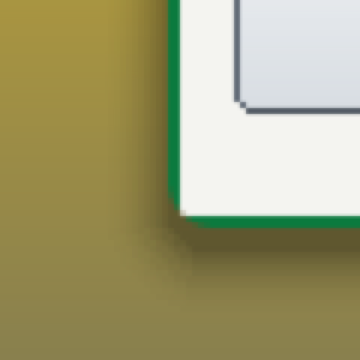
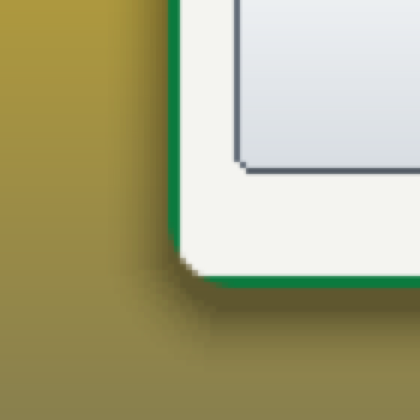
Cantos de raio 12, que arredondam também o conteúdo da janela
Com raio 8 e a borda de 2 pixels, a curva cortava só a borda e o conteúdo
branco ficava com a quina reta por dentro. A cobertura passa a vir do
suave.h (4 x 4 amostras) para qualquer raio, e só é calculada nas colunas
e linhas dos cantos. A sombra que segue a curva só tira a raiz nos cantos:
ao lado das retas a distância é direta. O quadro inteiro com vidro fica
em 22 a 30 ms, como no main (antes da otimização chegou a 42 ms e o
sistema ligava os efeitos leves sozinho); h104 confere que os efeitos
completos continuam ligados.

Changed region(s): [[0.3667, 0.0, 1.0, 0.7333], [0.55, 0.0, 1.0, 0.4278], [0.5194, 0.7333, 0.55, 0.7639]]

diff --git a/kernel/gui/vidro.c b/kernel/gui/vidro.c
@@ -47,43 +47,33 @@ static inline uint32_t escurecer(uint32_t p, int k)
     return (rb & 0xFF00FF) | (g & 0x00FF00);
 }
 
-/* Canto arredondado suavizado: quanto do pixel (de 0 a 256) fica dentro de
- * um quarto de círculo de raio 8, contado com 8 x 8 amostras por pixel.
- * Linha 0 e coluna 0 são as da ponta. Antes o canto só pulava pixels
- * inteiros (5, 3, 2, 1, 1), e a borda ficava em escada. */
-static const uint16_t canto[VIDRO_CANTO][VIDRO_CANTO] = {
-    { 0, 0, 0, 0, 48, 156, 216, 256 },
-    { 0, 0, 12, 156, 256, 256, 256, 256 },
-    { 0, 12, 196, 256, 256, 256, 256, 256 },
-    { 0, 156, 256, 256, 256, 256, 256, 256 },
-    { 48, 256, 256, 256, 256, 256, 256, 256 },
-    { 156, 256, 256, 256, 256, 256, 256, 256 },
-    { 216, 256, 256, 256, 256, 256, 256, 256 },
-    { 256, 256, 256, 256, 256, 256, 256, 256 },
-};
-
-/* Pixels de cobertura 0 na ponta da linha r (o que fica todo de fora). */
-int vidro_canto(int r)
+/* Canto arredondado suavizado: quanto de cada pixel da ponta fica dentro
+ * do quarto de círculo, contado com 4 x 4 amostras (suave.h). Antes o canto
+ * só pulava pixels inteiros (5, 3, 2, 1, 1), e a borda ficava em escada. O
+ * raio é VIDRO_CANTO, ou menos se o retângulo for baixo ou estreito. */
+static int raio_de(int l, int a)
 {
-    int n = 0;
-    if (r >= 0 && r < VIDRO_CANTO) while (n < VIDRO_CANTO && canto[r][n] == 0) n++;
+    int r = VIDRO_CANTO;
+    if (2 * r > l) r = l / 2;
+    if (2 * r > a) r = a / 2;
+    return r;
+}
+
+/* Quanto do pixel (i, j) fica dentro do retângulo (0 a 256). */
+static int cobertura(int i, int j, int x, int y, int l, int a, int cantos, int r)
+{
+    int li = i - x, lj = j - y;
+    if (lj < r ? !(cantos & CANTOS_EM_CIMA) : lj >= a - r ? !(cantos & CANTOS_EMBAIXO) : true) return 256;
+    return suave_amostras_ret(li, lj, l, a, r) * 16;
+}
+
+/* Pixels todo de fora na ponta da linha "linha" de um canto de raio
+ * VIDRO_CANTO (0 = a da ponta). */
+int vidro_canto(int linha)
+{
+    int R = VIDRO_CANTO, n = 0;
+    if (linha >= 0 && linha < R) while (n < R && suave_amostras_ret(n, linha, 2 * R, 2 * R, R) == 0) n++;
     return n;
-}
-
-/* Linha do canto em que j cai (0 = a da ponta), ou -1 fora dos cantos. */
-static int linha_canto(int j, int y, int a, int cantos)
-{
-    if ((cantos & CANTOS_EM_CIMA) && j - y < VIDRO_CANTO) return j - y;
-    if ((cantos & CANTOS_EMBAIXO) && y + a - 1 - j < VIDRO_CANTO) return y + a - 1 - j;
-    return -1;
-}
-
-/* Quanto do pixel i da linha "lin" do canto fica dentro (0 a 256). */
-static int cobertura(int lin, int i, int x, int l)
-{
-    if (lin < 0) return 256;
-    int col = i - x < VIDRO_CANTO ? i - x : x + l - 1 - i < VIDRO_CANTO ? x + l - 1 - i : -1;
-    return col < 0 ? 256 : canto[lin][col];
 }
 
 void vidro_pintar(superficie_t *s, int x, int y, int l, int a, uint32_t tinta, int k, int cantos)
@@ -91,13 +81,14 @@ void vidro_pintar(superficie_t *s, int x, int y, int l, int a, uint32_t tinta, i
     int x0 = x < s->cx0 ? s->cx0 : x, y0 = y < s->cy0 ? s->cy0 : y;
     int x1 = x + l > s->cx1 ? s->cx1 : x + l, y1 = y + a > s->cy1 ? s->cy1 : y + a;
     if (x0 >= x1 || y0 >= y1) return;
+    int r = raio_de(l, a);
     if (!buf || a > VIDRO_ALT_MAX || !vidro_efeitos) {
         /* Sem desfoque (efeitos leves): só a cor, um pouco transparente. */
         for (int j = y0; j < y1; j++) {
-            int lin = linha_canto(j, y, a, cantos);
             uint32_t *p = s->px + j * s->larg;
+            bool linha_canto = j < y + r || j >= y + a - r;
             for (int i = x0; i < x1; i++) {
-                int cob = cobertura(lin, i, x, l);
+                int cob = linha_canto && (i < x + r || i >= x + l - r) ? cobertura(i, j, x, y, l, a, cantos, r) : 256;
                 if (!cob) continue;
                 uint32_t v = vidro_efeitos ? mistura(p[i], tinta, k) : tinta;
                 p[i] = cob == 256 ? v : mistura(p[i], v, cob);
@@ -129,6 +120,7 @@ void vidro_pintar(superficie_t *s, int x, int y, int l, int a, uint32_t tinta, i
     /* Passada 2: cada coluna do destino, média vertical sobre buf, misturada com a tinta. */
     for (int i = x0; i < x1; i++) {
         int c = i - sx0;
+        bool coluna_canto = i < x + r || i >= x + l - r;   /* só as colunas dos cantos têm conta */
         uint32_t sr = 0, sg = 0, sb = 0;
         int n = 0;
         int jj0 = y0 - sy0;                          /* linha do buf do primeiro destino */
@@ -139,7 +131,7 @@ void vidro_pintar(superficie_t *s, int x, int y, int l, int a, uint32_t tinta, i
         }
         for (int yy = y0; yy < y1; yy++) {
             int jb = yy - sy0;
-            int cob = cobertura(linha_canto(yy, y, a, cantos), i, x, l);
+            int cob = coluna_canto && (yy < y + r || yy >= y + a - r) ? cobertura(i, yy, x, y, l, a, cantos, r) : 256;
             if (cob) {
                 uint32_t media = ((sr / (uint32_t)n) << 16) | ((sg / (uint32_t)n) << 8) | (sb / (uint32_t)n);
                 uint32_t *p = &s->px[yy * s->larg + i];
@@ -221,8 +213,13 @@ void vidro_sombra_r(superficie_t *s, int x, int y, int l, int a, int r)
             /* Distância (em pixels) até o retângulo arredondado descido. */
             int cx = i < x + r ? x + r : (i >= x + l - r ? x + l - r - 1 : i);
             int cy = j < sy + r ? sy + r : (j >= sy + a - r ? sy + a - r - 1 : j);
-            int dx = i - cx, dy = j - cy, d2 = dx * dx + dy * dy, d = 0;
-            while ((d + 1) * (d + 1) <= d2) d++;
+            int dx = i - cx, dy = j - cy, d;
+            if (!dx || !dy) d = (dx < 0 ? -dx : dx) + (dy < 0 ? -dy : dy);   /* ao lado de uma reta: sem raiz */
+            else {
+                int d2 = dx * dx + dy * dy;
+                d = 0;
+                while ((d + 1) * (d + 1) <= d2) d++;
+            }
             d -= r;
             if (d < 0) d = 0;
             if (d >= S) continue;
@@ -264,7 +261,7 @@ void vidro_aplicar_cantos(superficie_t *s, int x, int y, int l, int a)
     for (int lado = 0; lado < 2; lado++)
         for (int r = 0; r < VIDRO_CANTO; r++)
             for (int c = 0; c < VIDRO_CANTO; c++) {
-                int cob = canto[r][c];
+                int cob = suave_amostras_ret(c, a - 1 - r, l, a, raio_de(l, a)) * 16;
                 if (cob == 256) continue;
                 int px = lado ? x + l - 1 - c : x + c, py = y + a - 1 - r;
                 if (px >= s->cx0 && px < s->cx1 && py >= s->cy0 && py < s->cy1) {

diff --git a/tests/h104_cantos.py b/tests/h104_cantos.py
@@ -2,8 +2,8 @@
 """H104 - cantos arredondados com a borda suavizada nas janelas e nos menus.
 
 Antes, o canto de raio 8 só pulava pixels inteiros (5, 3, 2, 1, 1 por
-linha) e a borda ficava em escada. Agora cada pixel da ponta entra na
-proporção do quanto fica dentro do círculo (8 x 8 amostras).
+linha) e a borda ficava em escada. Agora o raio é 12 e cada pixel da
+ponta entra na proporção do quanto fica dentro do círculo (4 x 4 amostras).
 
 Critérios (medidos nos pixels da captura):
   - canto de cima da janela: a ponta é o fundo, o miolo é a barra de título
@@ -38,6 +38,10 @@ def main():
     with Maquina("h104", "ide", memoria="768M") as m:
         m.esperar_serial("sagui:/$", 120)
         time.sleep(1)
+        # Os cantos e a sombra são dos efeitos completos: se o quadro ficar
+        # lento demais (mais de 40 ms), o sistema liga os leves sozinho.
+        q = re.findall(r"quadro inteiro com vidro: (\d+) ms; efeitos (\w+)", m.serial())
+        verificar(q and q[-1][1] == "completos", f"os efeitos completos continuam ligados (quadro de {q[-1][0] if q else '?'} ms)")
         n = len(m.serial())
         m.digitar("calculadora\n", 0.03)
         m.esperar_serial('"Calculadora"', 30)
@@ -50,14 +54,14 @@ def main():
         fx, fy = c["fx"], c["fy"]
         fa = c["a"] + 24 + 2
 
-        fora, dentro, meio = cor_do_pixel(png, fx, fy), cor_do_pixel(png, fx + 12, fy + 2), cor_do_pixel(png, fx + 2, fy + 2)   # (12, 2): barra, antes do título
+        fora, dentro, meio = cor_do_pixel(png, fx, fy), cor_do_pixel(png, fx + 14, fy + 3), cor_do_pixel(png, fx + 3, fy + 3)   # (3, 3): na curva de raio 12
         verificar(distancia(fora, dentro) > 25, f"o canto de cima é redondo: ponta {fora}, barra {dentro}")
         verificar(mistura(meio, fora, dentro), f"a curva de cima é suavizada: {meio} entre {fora} e {dentro}")
 
         ponta, borda = cor_do_pixel(png, fx, fy + fa - 1), cor_do_pixel(png, fx + 12, fy + fa - 1)
         verificar(distancia(ponta, borda) > 40, f"o canto de baixo é redondo: ponta {ponta}, borda {borda}")
-        meio_b = cor_do_pixel(png, fx + 3, fy + fa - 2)    # linha 1, coluna 3 do canto: 156 de 256 dentro
-        borda_b = cor_do_pixel(png, fx + 12, fy + fa - 2)
+        meio_b = cor_do_pixel(png, fx + 3, fy + fa - 4)    # (3, 3) contado da ponta de baixo: na curva
+        borda_b = cor_do_pixel(png, fx + 9, fy + fa - 9)   # o conteúdo da janela, já dentro da curva
         verificar(mistura(meio_b, ponta, borda_b), f"a curva de baixo é suavizada: {meio_b} entre {ponta} e {borda_b}")
 
         # A sombra segue a curva: na diagonal do canto de baixo ela é mais
@@ -79,7 +83,7 @@ def main():
         m.mouse_para(760, 300)                             # o cursor sai de cima do canto
         time.sleep(0.8)
         png = m.captura("H104-menu")
-        fora, dentro, meio = cor_do_pixel(png, x, y), cor_do_pixel(png, x + 10, y + 10), cor_do_pixel(png, x + 2, y + 2)
+        fora, dentro, meio = cor_do_pixel(png, x, y), cor_do_pixel(png, x + 20, y + 3), cor_do_pixel(png, x + 3, y + 3)
         verificar(distancia(fora, dentro) > 30, f"o canto do menu é redondo: ponta {fora}, menu {dentro}")
         verificar(mistura(meio, fora, dentro), f"a curva do menu é suavizada: {meio} entre {fora} e {dentro}")
         m.tecla("esc")

diff --git a/kernel/inc/vidro.h b/kernel/inc/vidro.h
@@ -6,7 +6,7 @@
 #define VIDRO_RAIO     6      /* desfoque: média num quadrado de 13 x 13 */
 #define VIDRO_ALT_MAX  72     /* vidro mais alto que isso não é desfocado */
 #define VIDRO_SOMBRA   12     /* largura da sombra das janelas */
-#define VIDRO_CANTO    8      /* raio dos cantos arredondados */
+#define VIDRO_CANTO    12     /* raio dos cantos arredondados */
 
 #define CANTOS_EM_CIMA  1
 #define CANTOS_EMBAIXO  2
